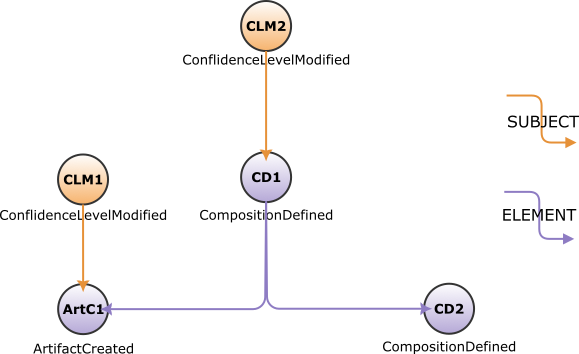
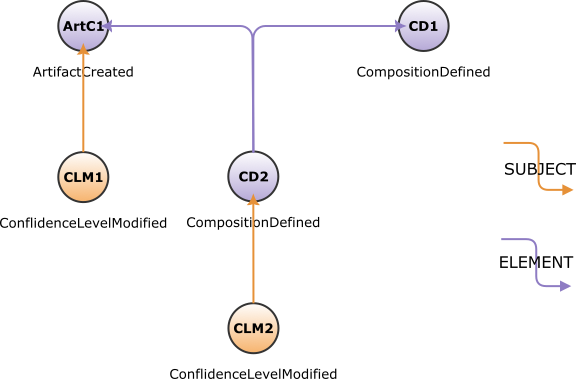
Redraw image for correct time flow and correct numbering of events

diff --git a/usage-examples/clm-for-hw-sw.md b/usage-examples/clm-for-hw-sw.md
@@ -43,16 +43,17 @@ confidence levels.
 * `ArtC1`:
   The [EiffelArtifactCreatedEvent (ArtC)](../eiffel-vocabulary/EiffelArtifactCreatedEvent.md)
   event represents the software artifact running on the hardware.
-* `CD1`:
-  The [EiffelCompositionDefinedEvent (CD)](../eiffel-vocabulary/EiffelCompositionDefinedEvent.md)
-  event describes the combination of hardware and software.
-* `CD2`: The [CD](../eiffel-vocabulary/EiffelCompositionDefinedEvent.md) event
-  describes the hardware. The event describes the type of hardware or maybe a
-  recipe but not a specific device like something having a serial
-  number. `data.name` describes the hardware or recipe.
+* `CD1`: The [CD](../eiffel-vocabulary/EiffelCompositionDefinedEvent.md) event
+  describes the hardware. 
+  The event describes the type of hardware or maybe a recipe but not a specific 
+  device like something having a serial number. 
+  `data.name` describes the hardware or recipe.
 * `CLM1`:
   The [EiffelConfidenceLevelModifiedEvent (CLM)](../eiffel-vocabulary/EiffelConfidenceLevelModifiedEvent.md)
-  describes the confidence for the software artifact `ArtC1`. This assumes no
-  dependencies on hardware when verifying the confidence.
-* `CLM2`: Describes the confidence for `CD1` containing both the software and
+  describes the confidence for the software artifact `ArtC1`. 
+  This assumes no dependencies on hardware when verifying the confidence.
+* `CD2`:
+  The [EiffelCompositionDefinedEvent (CD)](../eiffel-vocabulary/EiffelCompositionDefinedEvent.md)
+  event describes the combination of hardware and software.
+* `CLM2`: Describes the confidence for `CD2` containing both the software and
   the hardware
